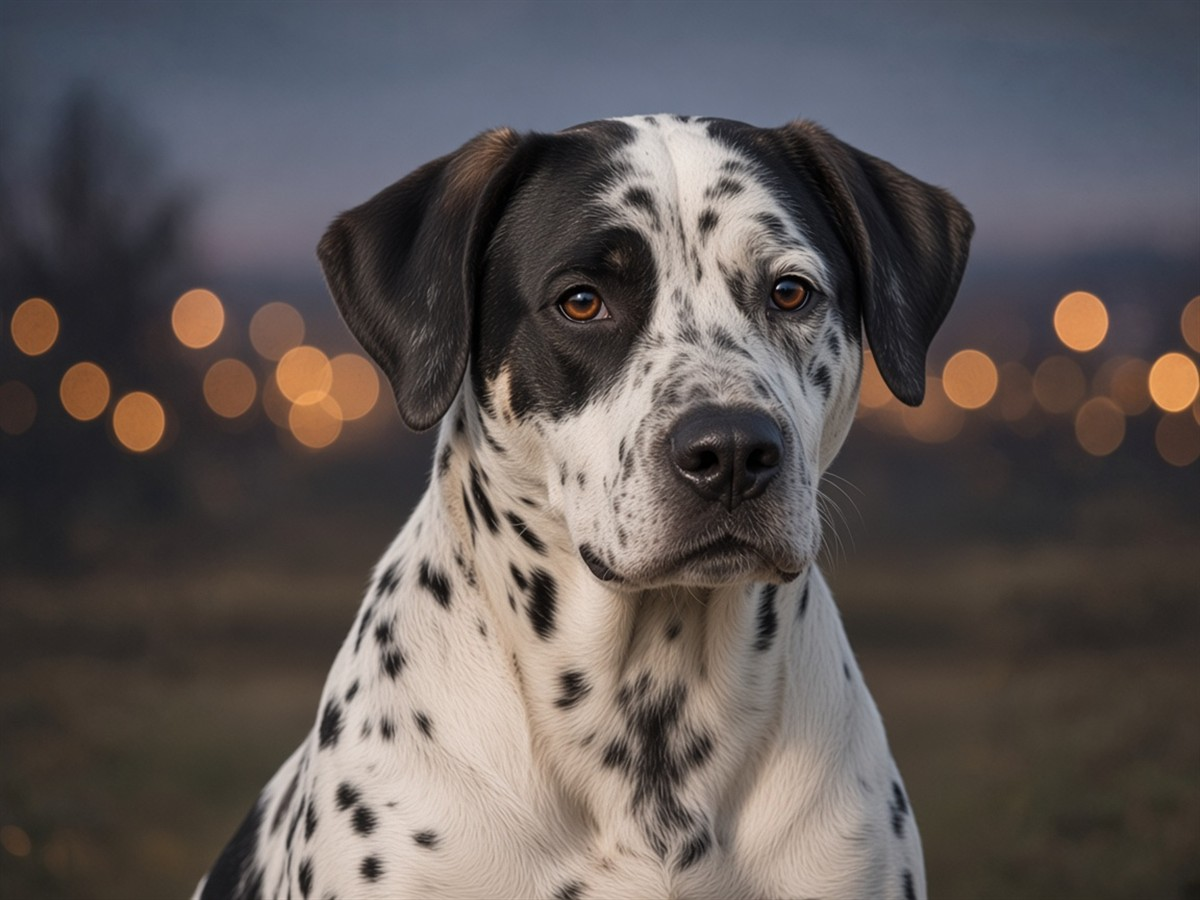
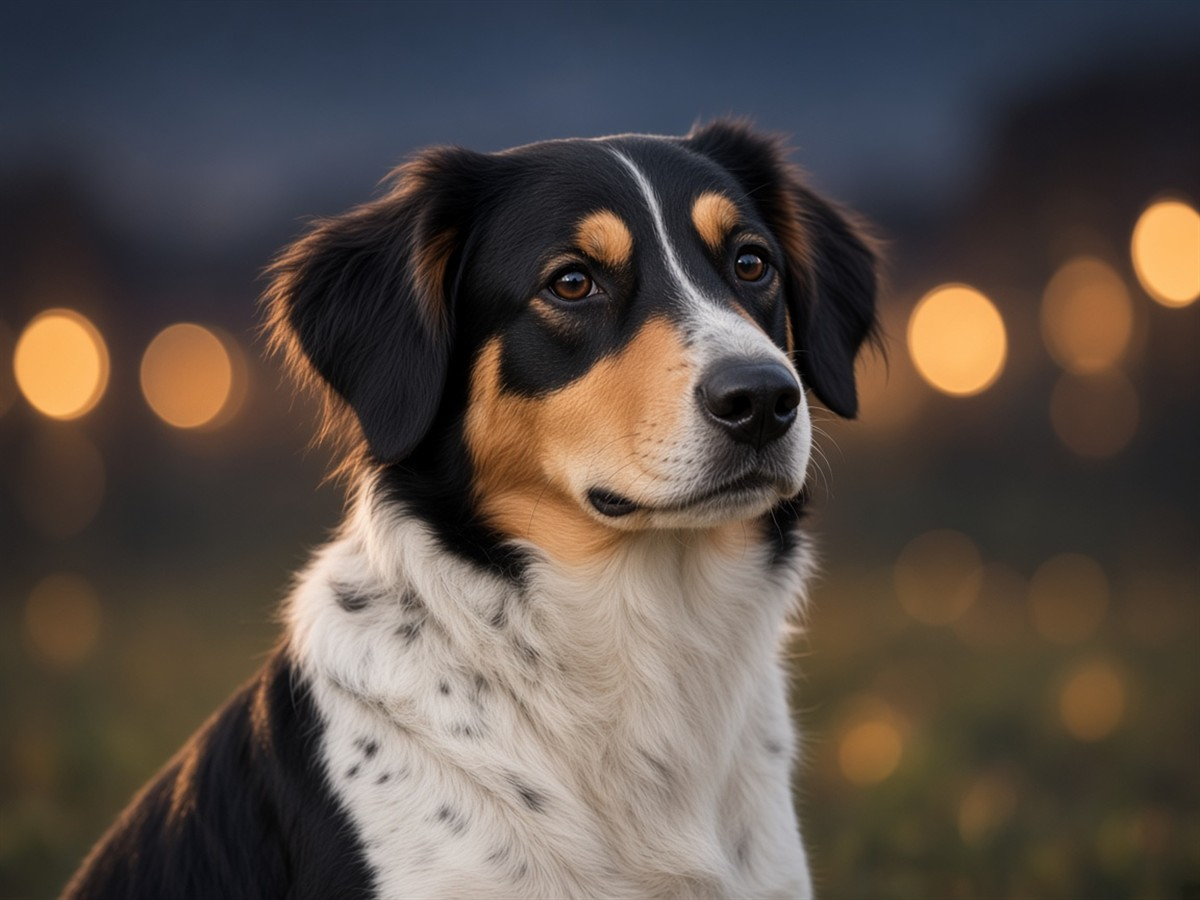
Update Dog Breed Image for 'Český strakatý pes' and Increment Sync Generation Version
- Updated the image version for 'Český strakatý pes' to ensure the latest visual representation is displayed.
- Incremented the breed image sync generation version to 30 for proper cache handling of the updated image.

diff --git a/src/lib/petBreedImages.ts b/src/lib/petBreedImages.ts
@@ -7,7 +7,7 @@ import { petPlaceholderImages } from './petTypes'
  * Bump when replacing files under public/breeds/ so pets + browser pick up new JPGs
  * without a manual hard refresh (appends `&r=N` to local breed URLs).
  */
-export const BREED_IMAGE_SYNC_GENERATION = 29
+export const BREED_IMAGE_SYNC_GENERATION = 30
 
 function withBreedSyncRevision(url: string): string {
   if (!url.startsWith('/breeds/')) return url
@@ -120,7 +120,7 @@ export const DOG_BREED_IMAGES: Record<string, string> = {
   'Československý vlčák': '/breeds/ceskoslovensky-vlcak.jpg?v=1',
   'Český fousek': '/breeds/cesky-fousek.jpg?v=1',
   'Český horský pes': '/breeds/cesky-horsky-pes.jpg?v=2',
-  'Český strakatý pes': '/breeds/cesky-strakaty-pes.jpg?v=1',
+  'Český strakatý pes': '/breeds/cesky-strakaty-pes.jpg?v=2',
   'Český teriér': '/breeds/cesky-terier.jpg?v=1',
   'Čínský chocholatý pes': '/breeds/cinsky-chocholaty-pes.jpg?v=1',
   'Čivava': 'https://images.dog.ceo/breeds/chihuahua/n02085620_4814.jpg',
